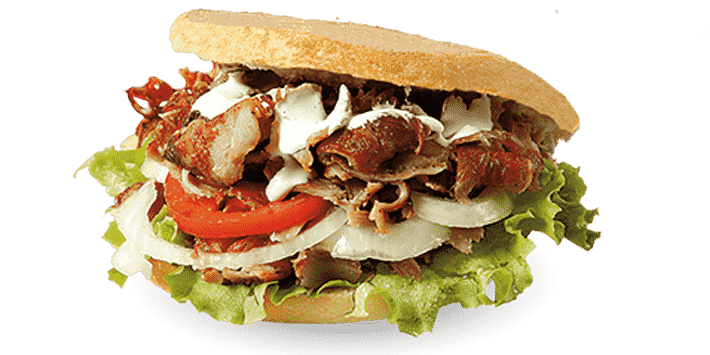
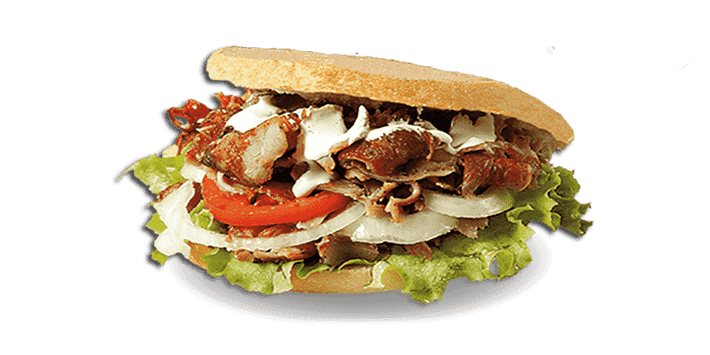
added food images and changed background

diff --git a/script/foods.js b/script/foods.js
@@ -45,7 +45,7 @@ const fastFoodData = [
   ],
   [
     {
-      name: "Gamburger",
+      name: "Gamburger 8",
       ingredients:
         "Tovuq go'shtli kotlet, sabzi salat, pomidor, bodring, ketchup, mayonez va sirli sous",
       prise: 8000,
@@ -53,7 +53,7 @@ const fastFoodData = [
       // soldOut: false,
     },
     {
-      name: "Gamburger",
+      name: "Gamburger 10",
       ingredients:
         "Tovuq go'shtli kotlet, sabzi salat, pomidor, bodring, ketchup, mayonez, sirli sous, salat barg va chips",
       prise: 10000,
@@ -62,20 +62,20 @@ const fastFoodData = [
       // soldOut: false,
     },
     {
-      name: "Gamburger",
+      name: "Gamburger 12",
       ingredients:
         "Mol go'shtili kotlet, sabzi salat, pomidor, bodring, ketchup, mayonez, sirli sous, salat barg va chips",
       prise: 12000,
-      photoName: "././pictures/hamburger.jpg",
+      photoName: "././pictures/gamburger/gamburger12000.png",
 
       // soldOut: false,
     },
     {
-      name: "Gamburger",
+      name: "Gamburger 18",
       ingredients:
         "2 x mol go'shtili kotlet, salat barg, sir, pomidor, bodring, piyoz, ketchup, mayonez, sirli sous va chips ",
       prise: 18000,
-      photoName: "././pictures/hamburger.jpg",
+      photoName: "././pictures/gamburger/gamburger18000.png",
 
       // soldOut: false,
     },
@@ -84,45 +84,45 @@ const fastFoodData = [
       ingredients:
         "Mol go'shtili kotlet, sabzi salat, pomidor, bodring, ketchup, mayonez, sirli sous, salat barg va chips",
       prise: 20000,
-      photoName: "././pictures/hamburger.jpg",
+      photoName: "././pictures/gamburger/chizburger.png",
 
       // soldOut: false,
     },
   ],
   [
     {
-      name: "Hot Dog ",
+      name: "Hot Dog 10",
       ingredients:
         "2 x To'htaniyoz sosiska, sabzi salat, salat barg, pomidor, bodring, sirli sous, chips, ketchup va mayonez",
       prise: 10000,
-      photoName: "././pictures/hotdog.jpg",
+      photoName: "././pictures/hot-dog/hotdog10000.png",
 
       // soldOut: false,
     },
     {
-      name: "Hot Dog ",
+      name: "Hot Dog 12",
       ingredients:
         "2 x kanadskaya sosiska, sabzi salat, salat barg, pomidor, bodring, sirli sous, chips, ketchup va mayonez",
       prise: 12000,
-      photoName: "././pictures/hotdog.jpg",
+      photoName: "././pictures/hot-dog/hotdog12000.png",
 
       // soldOut: false,
     },
     {
-      name: "Hot Dog ",
+      name: "Hot Dog 15",
       ingredients:
         "2 x Venskaya sosiska, sabzi salat, salat barg, pomidor, bodring, sirli sous, chips, ketchup va mayonez",
       prise: 15000,
-      photoName: "././pictures/hotdog.jpg",
+      photoName: "././pictures/hot-dog/hotdog15000.png",
 
       // soldOut: false,
     },
     {
-      name: "Hot Dog ",
+      name: "Hot Dog 18",
       ingredients:
         "Mol go'shti 80g, sabzi salat, salat barg, pomidor, bodring, sirli sous, chips, ketchup va mayonez",
       prise: 18000,
-      photoName: "././pictures/hotdog.jpg",
+      photoName: "././pictures/hot-dog/hotdog18000.png",
 
       // soldOut: false,
     },
@@ -130,7 +130,7 @@ const fastFoodData = [
   [
     {
       name: "Coca Cola 1,5L",
-      ingredients: "sir pomidor .....",
+      // ingredients: "sir pomidor .....",
       prise: 12000,
       photoName:
         "https://upload.wikimedia.org/wikipedia/commons/thumb/9/91/Pizza-3007395.jpg/220px-Pizza-3007395.jpg",

diff --git a/style/navbar.css b/style/navbar.css
@@ -75,7 +75,7 @@ input::-webkit-inner-spin-button {
   width: 100%;
   height: 100%;
   background-color: #1b1a1bc5;
-  backdrop-filter: blur(4px);
+  backdrop-filter: blur(6px);
   z-index: 9999;
 }
 
@@ -84,6 +84,8 @@ input::-webkit-inner-spin-button {
 }
 
 .cart-content {
+  border: 1px solid rgb(255, 255, 255);
+  box-shadow: 0 0 15px white;
   width: 600px;
   position: absolute;
   top: 50%;
@@ -93,6 +95,7 @@ input::-webkit-inner-spin-button {
   background-color: white;
   border-radius: 10px;
   text-align: center;
+  background: url("/pictures/background.png");
 }
 
 .close-shoping-card {
@@ -100,12 +103,12 @@ input::-webkit-inner-spin-button {
   right: 25px;
   top: 20px;
   font-size: 1.5rem;
-  color: orange;
+  color: rgb(255, 238, 0);
 }
 
 .cart-content h2 {
+  color: rgb(255, 238, 0);
   margin-bottom: 15px;
-  color: black;
 }
 
 .shoping-cart-items {
@@ -114,7 +117,7 @@ input::-webkit-inner-spin-button {
   flex-direction: column;
   align-items: start;
   font-size: 1.2rem;
-  color: rgb(0, 0, 0);
+  color: rgb(238, 255, 0);
 }
 
 .submit-btn {

diff --git a/style/content.css b/style/content.css
@@ -87,7 +87,7 @@ body {
 }
 
 .total-div {
-  color: green;
+  color: rgb(0, 255, 0);
   padding-top: 5px;
   display: flex;
   justify-content: center;
@@ -194,7 +194,7 @@ body {
   width: 120px;
   border: none;
   background-color: rgb(255, 182, 46);
-  box-shadow: 0 0 8px rgb(128, 128, 128);
+  box-shadow: 0 0 10px rgb(255, 255, 255);
   font-weight: 600;
 }
 
@@ -213,14 +213,16 @@ body {
   transform: translate(-50%, -50%);
   width: 100%;
   height: 100%;
-  background-color: #ffffff;
+  background-color: #ffc628;
+  background-image: url("/pictures/background.png");
   z-index: 1;
 }
 
 .success h2 {
   /* z-index: 2; */
+  letter-spacing: 2px;
   font-weight: 600;
-  color: rgb(51, 218, 0);
+  color: rgb(148, 255, 49);
 }
 
 .success a {
